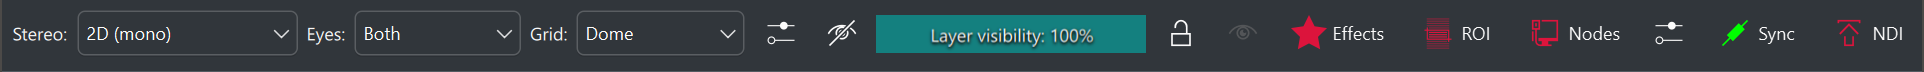
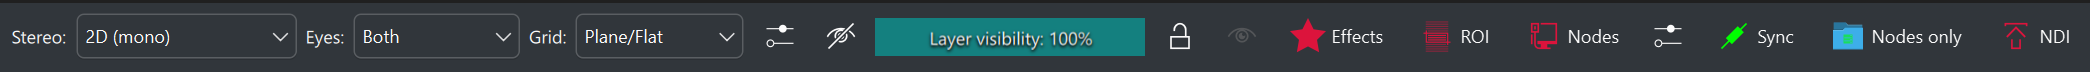
Docs update

diff --git a/src/qml/qt6/Settings/TcpControlSettingsPage.qml b/src/qml/qt6/Settings/TcpControlSettingsPage.qml
@@ -248,11 +248,11 @@ SettingsBasePage {
                 onActivated: root.incomingCommandServerId = currentValue
             }
             Label { text: qsTr("Send terminator (hex):") }
-            TextField { id: incomingSendHex; Layout.fillWidth: true; placeholderText: qsTr("0a = LF, 0d = CR (Medialon)") }
+            TextField { id: incomingSendHex; Layout.fillWidth: true; placeholderText: qsTr("0a = LF, 0d = CR") }
             Label { text: qsTr("Replies:") }
             CheckBox {
                 id: incomingReplies
-                text: qsTr("Reply to every action with a JSON result (turn off for Medialon, which only needs the updates)")
+                text: qsTr("Reply to every action with a JSON result (turn off for clients that only need the updates)")
             }
         }
         RowLayout {
@@ -348,7 +348,7 @@ SettingsBasePage {
         }
         Label {
             Layout.fillWidth: true; wrapMode: Text.WordWrap
-            text: qsTr("Import adds matching Medialon event commands to the selected saved server. Use CRLF framing for the generated LLC driver.")
+            text: qsTr("Import adds the EventModel's event commands to the selected saved server.")
         }
         Label {
             Layout.fillWidth: true; wrapMode: Text.WordWrap

diff --git a/docs/docs/remote-control/tcp.md b/docs/docs/remote-control/tcp.md
@@ -9,10 +9,10 @@ C-Play provides both an outgoing TCP Control Client and an incoming TCP Control 
 
 | Component | Connection direction | Purpose |
 | --- | --- | --- |
-| [TCP Control Client](#tcp-control-client) | C-Play connects to an external TCP server. | Send saved commands from presentation layers and send state updates to devices or control systems such as Medialon. |
+| [TCP Control Client](#tcp-control-client) | C-Play connects to an external TCP server. | Send saved commands from presentation layers and send state updates to devices or show-control systems. |
 | [TCP Control Server](#tcp-control-server) | An external TCP client connects to C-Play, normally on port 7008. | Control C-Play using the existing REST action names and parameters over a persistent TCP connection, and [subscribe](#subscriptions-and-incoming-client-profiles) to state updates on the same connection. |
 
-The two components can run together. For Medialon, either use one full-duplex connection, where **C-Play TCP Control Client** connects to C-Play's server, sends actions and receives its subscribed updates, or use two connections, where **C-Play Control Events** is the server receiving C-Play updates and **C-Play TCP Control Client** only sends actions. HTTP control normally uses port 7007 and is configured separately.
+The two components can run together. With the example MLLC drivers in `help/http_server`, either use one full-duplex connection, where **C-Play TCP Control Client** connects to C-Play's server, sends actions and receives its subscribed updates, or use two connections, where **C-Play Control Events** is the server receiving C-Play updates and **C-Play TCP Control Client** only sends actions. HTTP control normally uses port 7007 and is configured separately.
 
 ## TCP Control Client
 
@@ -41,9 +41,9 @@ The original single-server `[TcpControl]` configuration is imported once as **Le
 
 #### Predefined startup configuration
 
-When no saved `C-Play/tcp-control.json` exists and legacy TCP control is disabled, C-Play loads `./data/predefined-tcp-control.json` at startup, relative to the working directory, like the other `predefined-*` files. It uses the same `version`, `servers`, `commands` and optional `incomingClients` structure as the saved configuration. The packaged example defines a disabled Medialon server at 127.0.0.1 on port 9000 with CR framing (`sendTerminatorHex: "0d"`), `task_start MyTask` / `task_stop MyTask` commands, and all ControlEventFeed monitoring commands. Its [default incoming client profile](#subscriptions-and-incoming-client-profiles) is the Medialon full-duplex client: every client of the TCP Control Server without its own profile is subscribed to all topics on connect and receives them in the structure of those monitoring commands, terminated by CR.
+When no saved `C-Play/tcp-control.json` exists and legacy TCP control is disabled, C-Play loads `./data/predefined-tcp-control.json` at startup, relative to the working directory, like the other `predefined-*` files. It uses the same `version`, `servers`, `commands` and optional `incomingClients` structure as the saved configuration. The packaged example, made for the example MLLC drivers, defines a disabled task server at 127.0.0.1 on port 9000 with CR framing (`sendTerminatorHex: "0d"`), `task_start MyTask` / `task_stop MyTask` commands, and all ControlEventFeed monitoring commands. Its [default incoming client profile](#subscriptions-and-incoming-client-profiles) matches the example full-duplex MLLC client driver: every client of the TCP Control Server without its own profile is subscribed to all topics on connect and receives them in the structure of those monitoring commands, terminated by CR.
 
-Set the host to the Showmaster Editor computer during programming or the Showmaster address during standalone operation. Replace `MyTask` with your task name, enable the server, and save it in **TCP control**. Medialon's LLC device must listen on port 9000 and dispatch received commands to project tasks.
+Set the host to the Showmaster Editor computer during programming or the Showmaster address during standalone operation. Replace `MyTask` with your task name, enable the server, and save it in **TCP control**. The receiving example driver, `help/http_server/Showmaster_TCP_Server.mllc`, must listen on port 9000 and dispatch received commands to project tasks.
 
 Predefined entries load into memory; saving a server or command writes the complete configuration to the user configuration path. That saved file takes precedence on later starts, even when empty or invalid. To use edited predefined entries again, back up and move the saved file out of that path before restarting. Keep IDs stable when editing examples so presentation layers retain their command references. Startup loads definitions and connects enabled servers that have `connectOnStartup`; it does not automatically trigger commands.
 
@@ -136,9 +136,9 @@ Changes are sampled on the ready master's Qt thread every 100 ms, regardless of 
 
 Unchanged topic values send nothing. Automatic commands that append a value also compare their final payload with the last payload sent by that command, per connection. For example, changing layer visibility does not resend a formatted layer-name list if its text stays the same. This applies to outgoing server connections and clients of the TCP Control Server. Initial snapshots, explicit command triggers and full updates always send. Fixed-payload action commands still run on every matching topic change.
 
-#### Medialon event variables and EventModel
+#### EventModel and example driver variables
 
-`data/EventModel.json` is the shared definition for all 33 event commands and their Medialon monitoring variables. New installations receive these commands through `data/predefined-tcp-control.json`. For an existing project, select a saved server in **TCP control**, enter the EventModel JSON path, and click **Import EventModel**. Import merges commands into that server, keeps unrelated commands, and uses stable IDs; importing again updates the same entries. Configure the server for delimiter framing with `sendTerminatorHex: "0d"` (CR), then enable it. Frames end at CR so that the LF row separators in formatted lists stay inside the value; a server still using `0d0a` makes the driver drop list frames. Server JSON notifications can remain disabled because the imported commands send the monitoring frames themselves.
+`data/EventModel.json` is the shared definition for all 33 event commands and the monitoring variables of the example MLLC drivers. New installations receive these commands through `data/predefined-tcp-control.json`. For an existing project, select a saved server in **TCP control**, enter the EventModel JSON path, and click **Import EventModel**. Import merges commands into that server, keeps unrelated commands, and uses stable IDs; importing again updates the same entries. Configure the server for delimiter framing with `sendTerminatorHex: "0d"` (CR), then enable it. Frames end at CR so that the LF row separators in formatted lists stay inside the value; a server still using `0d0a` makes the driver drop list frames. Server JSON notifications can remain disabled because the imported commands send the monitoring frames themselves.
 
 Generate the matching driver from the same model:
 
@@ -167,14 +167,14 @@ Reusable commands persist `eventPayload`, defaulting to `fixed` for manual devic
 `charsPerItem` is a saved per-command integer from 0 to 4096:
 
 - `0` sends arrays and objects as full compact JSON, retaining their fields. Scalars are unaffected: booleans send 0/1, numbers preserve fractional precision, and strings send their text with CR/LF replaced by spaces.
-- A positive width sends `playlist`, `sections`, `audiotracks` and `slides` exactly as the REST `/playlist`, `/sections`, `/audiotracks` and `/slides` endpoints return them with the same `charsPerItem`: numbered rows separated by LF, playlist and section rows ending with their duration, and the slide list excluding the master slide. `layers` is sent as the REST `/layers` endpoint returns it for the currently triggered slide, or for the master slide when no slide is triggered; it is also resent whenever `triggered_slide` changes. Any other list sends numbered labels separated by LF, each exactly that many Unicode characters, padded with spaces or truncated with `... ` when the width allows. Their labels prefer `listTitle`, `shortText`, `title`, `name`, `text`, `language`, `video`, then `path`; rows without these fields use their JSON representation. Use a send terminator without LF (the Medialon driver expects CR, `0d`) when lists contain LF row separators.
+- A positive width sends `playlist`, `sections`, `audiotracks` and `slides` exactly as the REST `/playlist`, `/sections`, `/audiotracks` and `/slides` endpoints return them with the same `charsPerItem`: numbered rows separated by LF, playlist and section rows ending with their duration, and the slide list excluding the master slide. `layers` is sent as the REST `/layers` endpoint returns it for the currently triggered slide, or for the master slide when no slide is triggered; it is also resent whenever `triggered_slide` changes. Any other list sends numbered labels separated by LF, each exactly that many Unicode characters, padded with spaces or truncated with `... ` when the width allows. Their labels prefer `listTitle`, `shortText`, `title`, `name`, `text`, `language`, `video`, then `path`; rows without these fields use their JSON representation. Use a send terminator without LF (the example MLLC drivers expect CR, `0d`) when lists contain LF row separators.
 - The packaged list commands use `40`, `layer_states` uses `38`, and other event commands use `0`. Fixed-width labels intentionally limit list details; use width `0` or the existing REST list/JSON endpoints when full detail is needed. The setting is available in the command editor and through REST, and persists across restarts.
 
-`timeFormat` is an optional per-command time code format for the time topics `position`, `remaining` and `duration`. The packaged `position`, `remaining` and `duration` commands use `hh:mm:ss`, for example `cplay position 00:01:05`, sent at most once per second. An empty format sends seconds with fractional precision. Otherwise the value is sent as a time code in the same QTime format as the REST `format=` parameter of `/position`, `/remaining` and `/duration`: `hh`, `mm`, `ss` and `zz`/`zzz` for milliseconds, with any separators, for example `hh:mm:ss` (`cplay position 00:01:05`) or `hh:mm:ss/zz`. Negative times get a leading `-`. Position is sampled every 100 ms, but a time-formatted command is only sent when its text changes, so `hh:mm:ss` sends at most once per second. Full updates always send. Video frame numbers are not available. Set it in the command editor (**Time format**), in the EventModel, or with `POST /tcp/command?command_id=...&timeFormat=hh:mm:ss` (an empty `timeFormat` restores seconds). The Medialon variables of these topics are strings, so the driver needs no change.
+`timeFormat` is an optional per-command time code format for the time topics `position`, `remaining` and `duration`. The packaged `position`, `remaining` and `duration` commands use `hh:mm:ss`, for example `cplay position 00:01:05`, sent at most once per second. An empty format sends seconds with fractional precision. Otherwise the value is sent as a time code in the same QTime format as the REST `format=` parameter of `/position`, `/remaining` and `/duration`: `hh`, `mm`, `ss` and `zz`/`zzz` for milliseconds, with any separators, for example `hh:mm:ss` (`cplay position 00:01:05`) or `hh:mm:ss/zz`. Negative times get a leading `-`. Position is sampled every 100 ms, but a time-formatted command is only sent when its text changes, so `hh:mm:ss` sends at most once per second. Full updates always send. Video frame numbers are not available. Set it in the command editor (**Time format**), in the EventModel, or with `POST /tcp/command?command_id=...&timeFormat=hh:mm:ss` (an empty `timeFormat` restores seconds). The example MLLC drivers store these topics in string variables, so they need no change.
 
 #### Layer states
 
-The `layer_states` topic tells a show controller which layers of the selected slide are on, off or in transition, without parsing the full `layers` value. It covers the layers of the selected slide, or of the master slide when the selected index is `-1`. The `selected_slide` topic (Medialon variable `CPlay_selected_slide`) sends that slide index as its own integer; it has the same value as `playing_in_slides`. When the selection changes, `selected_slide` is sent before `layer_states`, in the same sample. Each layer has one of four states:
+The `layer_states` topic tells a show controller which layers of the selected slide are on, off or in transition, without parsing the full `layers` value. It covers the layers of the selected slide, or of the master slide when the selected index is `-1`. The `selected_slide` topic (example MLLC driver variable `CPlay_selected_slide`) sends that slide index as its own integer; it has the same value as `playing_in_slides`. When the selection changes, `selected_slide` is sent before `layer_states`, in the same sample. Each layer has one of four states:
 
 | State | Meaning |
 | --- | --- |
@@ -188,7 +188,7 @@ Fades and entrance/exit effects started on a layer (double-click, `/layer_fade_i
 What is sent depends on the command's `charsPerItem`:
 
 - `0` sends one line, `slide=<index>` followed by `;<layer_idx>:<state>` per layer. `layer_idx` is zero-based, as the `layer_idx=` parameter of the [layer control endpoints](api.md#layer-control) expects. For example `cplay layer_states slide=2;0:ON;1:OFF;2:IN`.
-- A positive width (the packaged `Medialon: layer_states` command uses `38`) sends one row per layer separated by LF, each exactly that many characters: the numbered title, then the state right-aligned in the last 4 characters, for example `1. Logo                             ON`.
+- A positive width (the packaged `layer_states` command uses `38`) sends one row per layer separated by LF, each exactly that many characters: the numbered title, then the state right-aligned in the last 4 characters, for example `1. Logo                             ON`.
 
 JSON notifications and subscriptions receive the structured value, for example `{"slide":2,"layers":[{"index":0,"title":"Logo","state":"ON"},{"index":1,"title":"Intro video","state":"IN"}]}`. HTTP `GET /layer_states?charsPerItem=0` returns the same text as the TCP command for initialization or polling.
 
@@ -216,11 +216,11 @@ HTTP long polling and optional WebSocket subscriptions use the same feed; see [A
 
 ## TCP Control Server
 
-The incoming listener accepts REST-style actions from Medialon or another TCP client. It dispatches directly to the same action handlers as HTTP; enabling the HTTP listener is optional. The listener does not use the outgoing client's `operation` / `parameter` protocol.
+The incoming listener accepts REST-style actions from any TCP client. It dispatches directly to the same action handlers as HTTP; enabling the HTTP listener is optional. The listener does not use the outgoing client's `operation` / `parameter` protocol.
 
 ### Enable the listener
 
-Enable **Incoming TCP control → Enable TCP server on master**, choose a numeric IPv4 or IPv6 bind address and port (default `0.0.0.0:7008`), then click **Apply listener**. These settings persist in `cplay.conf`. Only a ready master listens; disabling the server, changing role, or quitting closes its clients. HTTP may remain disabled. Use a bind address reachable from Medialon; the listener shares the REST API's trusted-network access model.
+Enable **Incoming TCP control → Enable TCP server on master**, choose a numeric IPv4 or IPv6 bind address and port (default `0.0.0.0:7008`), then click **Apply listener**. These settings persist in `cplay.conf`. Only a ready master listens; disabling the server, changing role, or quitting closes its clients. HTTP may remain disabled. Use a bind address reachable from the clients; the listener shares the REST API's trusted-network access model.
 
 ### Medialon client driver
 
@@ -246,7 +246,7 @@ The shared `data/TcpControlActions.json` catalog defines all 51 actions and is e
 
 ### Command format and replies
 
-The wire format is one UTF-8 command per LF or CRLF terminated line. Send an actual newline after each request; there is no HTTP version, header block or request body on this TCP connection. Medialon sends request lines:
+The wire format is one UTF-8 command per LF or CRLF terminated line. Send an actual newline after each request; there is no HTTP version, header block or request body on this TCP connection. Clients send request lines:
 
 ```text
 POST /play
@@ -255,9 +255,9 @@ POST /load_from_playlist?index=2
 POST /layer_visibility?slide_idx=0&layer_idx=1&value=50
 ```
 
-Use the REST parameter names, units and zero-based indices. String parameters in Medialon must be URL percent encoded when they contain special characters: space `%20`, ampersand `%26`, hash `%23`, percent `%25`, and UTF-8 bytes for non-ASCII text. A plus sign is literal. The generated layer commands use slide/layer indices; custom commands can use `slide_name`, `layer_title`, `sub_layer_idx`, or `sub_layer_title` as the REST API does. Omitting the slide selector targets the Master slide. Layer plane commands can set any subset of the plane properties listed in the [HTTP layer control reference](api.md#layer-control).
+Use the REST parameter names, units and zero-based indices. String parameters must be URL percent encoded when they contain special characters: space `%20`, ampersand `%26`, hash `%23`, percent `%25`, and UTF-8 bytes for non-ASCII text. A plus sign is literal. The generated layer commands use slide/layer indices; custom commands can use `slide_name`, `layer_title`, `sub_layer_idx`, or `sub_layer_title` as the REST API does. Omitting the slide selector targets the Master slide. Layer plane commands can set any subset of the plane properties listed in the [HTTP layer control reference](api.md#layer-control).
 
-`/layer_plane` also accepts `circular`, `centreDegrees` and `widthDegrees` for [circular placement](api.md#layer-control), for example `POST /layer_plane?slide_idx=0&layer_idx=0&circular=1&centreDegrees=355&widthDegrees=20`. The shared circular surface must be enabled in Grid Settings. Regenerate the Medialon client driver to expose these additional optional fields; empty degree fields leave their saved values unchanged.
+`/layer_plane` also accepts `circular`, `centreDegrees` and `widthDegrees` for [circular placement](api.md#layer-control), for example `POST /layer_plane?slide_idx=0&layer_idx=0&circular=1&centreDegrees=355&widthDegrees=20`. The shared circular surface must be enabled in Grid Settings. Regenerate the example MLLC client driver to expose these additional optional fields; empty degree fields leave their saved values unchanged.
 
 Other TCP clients can send JSON instead, with string parameter values:
 
@@ -266,7 +266,7 @@ Other TCP clients can send JSON instead, with string parameter values:
 {"path":"/layer_visibility","parameters":{"layer_title":"Logo","value":"50"}}
 ```
 
-Each command receives a newline-delimited JSON reply, for example `{"accepted":true,"status":200,"message":"Play"}`. `accepted` reports dispatch to the REST handler, not completion of playback or a transition. Legacy REST validation messages are preserved; read the message for an invalid value or missing target. Malformed requests, unsupported paths, and missing mutation parameters return `accepted:false` without dispatch. The Medialon driver sends commands without waiting for replies and does not replay commands after reconnect.
+Each command receives a newline-delimited JSON reply, for example `{"accepted":true,"status":200,"message":"Play"}`. `accepted` reports dispatch to the REST handler, not completion of playback or a transition. Legacy REST validation messages are preserved; read the message for an invalid value or missing target. Malformed requests, unsupported paths, and missing mutation parameters return `accepted:false` without dispatch. The example MLLC client driver sends commands without waiting for replies and does not replay commands after reconnect.
 
 JSON parameters must be strings, including numbers and booleans. Repeated URL query parameter names are rejected. Setters require their mutation parameter (for example, `/volume` requires `level`); `/volume` alone is rejected as an information query. Use the [subscription actions](#subscriptions-and-incoming-client-profiles) below to receive state on the same connection, or the [event API](api.md#change-subscriptions).
 
@@ -289,7 +289,7 @@ POST /full_update?topics=playlist
 | `/unsubscribe` | Comma-separated topics; omitted, empty or `*` clears the subscription. | Removes the topics. Removing single topics from an all-topics subscription keeps all other topics. |
 | `/full_update` | Comma-separated topics; omitted or empty means all. | Sends the current values once, without changing the subscription. |
 
-JSON clients send the same actions as `{"path":"/subscribe","parameters":{"topics":"volume,playlist"}}`. The reply is sent first, for example `{"accepted":true,"status":200,"message":"Subscribed","topics":["volume","playlist"]}`. `topics` lists the connection's subscription after the change; for `/full_update` it lists the requested topics. Unknown topics return `accepted:false` with status 400 and change nothing. Subscriptions belong to the connection: they end when the client disconnects. By default, the client's profile subscribes it to all topics again on connect (below), so a reconnecting client such as Medialon needs no `/subscribe` of its own. Changes are sampled every 100 ms, as for the TCP Control Client, and are not replayed after a reconnect.
+JSON clients send the same actions as `{"path":"/subscribe","parameters":{"topics":"volume,playlist"}}`. The reply is sent first, for example `{"accepted":true,"status":200,"message":"Subscribed","topics":["volume","playlist"]}`. `topics` lists the connection's subscription after the change; for `/full_update` it lists the requested topics. Unknown topics return `accepted:false` with status 400 and change nothing. Subscriptions belong to the connection: they end when the client disconnects. By default, the client's profile subscribes it to all topics again on connect (below), so a reconnecting client needs no `/subscribe` of its own. Changes are sampled every 100 ms, as for the TCP Control Client, and are not replayed after a reconnect.
 
 What a client receives depends on the **incoming client profile** for its address. A profile is selected by the client's IP address as C-Play sees it, so IPv4 clients of a dual-stack listener still match their IPv4 address. Every client without an enabled profile for its exact address uses the **default profile**, address `*`. The default profile always exists: C-Play adds it to a configuration without one, it cannot be deleted, and its address and `enabled` flag cannot be changed. Edit it to change what unknown clients receive. Its built-in settings are the name **Default profile**, JSON notifications, the LF terminator and a subscription to all topics on connect.
 
@@ -298,15 +298,15 @@ What a client receives depends on the **incoming client profile** for its addres
 | `id`, `name` | derived address, required name | The profile ID is the canonical client address, or `*`. |
 | `address` | required | Numeric IPv4/IPv6 address of the client, or `*` for the default profile. |
 | `enabled` | `true` | Disabled profiles are ignored when matching; their clients use the default profile. Always `true` for the default profile. |
-| `eventTopics` | `["*"]` | Topics subscribed automatically when the client connects, `*` for all; `[]` waits for `/subscribe`. Clients that reconnect automatically, such as Medialon, then never miss their subscription. |
+| `eventTopics` | `["*"]` | Topics subscribed automatically when the client connects, `*` for all; `[]` waits for `/subscribe`. Clients that reconnect automatically then never miss their subscription. |
 | `excludedTopics` | `[]` | Topics left out of an `eventTopics: ["*"]` subscription. Topics added in later C-Play versions are still subscribed. Ignored for explicit topic lists. |
 | `eventFormat` | `json` | `json`: the `change` notifications and `snapshot` objects of the [outgoing client's subscriptions](#subscribe-and-query-over-tcp). `commands`: the event commands of the server `commandServerId`. |
 | `commandServerId` | — | Required for `commands`. Every reusable command of this server with **Trigger on changes** topics is sent to the client for those topics, exactly as it is sent to that server: same payload prefix, appended value, `charsPerItem`, `timeFormat` and exact-wire-bytes setting. The server itself may be disabled; it then only defines the structure. |
-| `sendTerminatorHex` | `0a` | Terminator of every reply and update sent to the client, for example `0a` (LF) or `0d` (CR, for the Medialon driver). May be empty. |
+| `sendTerminatorHex` | `0a` | Terminator of every reply and update sent to the client, for example `0a` (LF) or `0d` (CR, for the example MLLC client driver). May be empty. |
 | `sendInitialUpdate` | `true` | Send the current values of the `eventTopics` subscription when the client connects. Turn off for clients that disconnect and reconnect often: each connection then only receives changes, and the client requests the current values with `/full_update` when it needs them. An explicit `/subscribe` always sends the current values. |
-| `sendReplies` | `true` | Reply to every action, including `/subscribe`, `/unsubscribe` and `/full_update`, with its JSON result. Turn off for clients that only need the updates, such as the Medialon driver. Updates are always sent. |
+| `sendReplies` | `true` | Reply to every action, including `/subscribe`, `/unsubscribe` and `/full_update`, with its JSON result. Turn off for clients that only need the updates, such as the example MLLC client driver. Updates are always sent. |
 
-With the `commands` format, a subscription to `volume` sends `cplay volume 75` followed by the terminator for the packaged Medialon commands. An initial value, a full update, or `/subscribe` for all topics sends each event command of the requested topics once, like the [full update](#layer-states) of a server. Automatic value commands are only sent when their final payload changes, per client. A `layers` command with a positive `charsPerItem` is also checked when `triggered_slide` changes and sent if its text changes. In JSON format, the initial values and full updates are one `snapshot` object, and changes are `change` notifications.
+With the `commands` format, a subscription to `volume` sends `cplay volume 75` followed by the terminator for the packaged event commands. An initial value, a full update, or `/subscribe` for all topics sends each event command of the requested topics once, like the [full update](#layer-states) of a server. Automatic value commands are only sent when their final payload changes, per client. A `layers` command with a positive `charsPerItem` is also checked when `triggered_slide` changes and sent if its text changes. In JSON format, the initial values and full updates are one `snapshot` object, and changes are `change` notifications.
 
 Profiles are saved in the `incomingClients` array of `tcp-control.json`:
 
@@ -314,7 +314,7 @@ Profiles are saved in the `incomingClients` array of `tcp-control.json`:
 {
   "incomingClients": [
     {
-      "name": "Medialon full-duplex client",
+      "name": "Full-duplex show controller",
       "address": "192.168.1.20",
       "enabled": true,
       "eventTopics": ["*"],

diff --git a/docs/docs/settings/tcp_control.md b/docs/docs/settings/tcp_control.md
@@ -7,11 +7,11 @@ sidebar_position: 9
 
 ![TCP control settings](/assets/ui/settings/tcp_control.png)
 
-The TCP control settings configure C-Play's incoming TCP Control Server and its outgoing TCP Control Client connections. Only the master opens connections or listens; cluster nodes ignore these settings. For protocols, framing, event topics and Medialon examples, see [TCP control](/remote-control/tcp).
+The TCP control settings configure C-Play's incoming TCP Control Server and its outgoing TCP Control Client connections. Only the master opens connections or listens; cluster nodes ignore these settings. For protocols, framing, event topics and the example MLLC drivers, see [TCP control](/remote-control/tcp).
 
 ### Incoming TCP control
 
-* **Enable TCP server on master** — Accept REST-style actions from a TCP client such as Medialon, see [TCP Control Server](/remote-control/tcp#tcp-control-server).
+* **Enable TCP server on master** — Accept REST-style actions from any TCP client, see [TCP Control Server](/remote-control/tcp#tcp-control-server).
 * **Bind address** / **Port** — Numeric IPv4 or IPv6 address and port to listen on (default `0.0.0.0:7008`). Click **Apply listener** to apply them.
 
 The line below shows the listener state and the number of connected clients. These settings are saved in `cplay.conf`.
@@ -26,8 +26,8 @@ Clients of the TCP server can subscribe to state updates with `/subscribe`, `/un
 * **Update on connect** — Send the current values of the subscribed topics when the client connects (default on). Turn off for clients that disconnect and reconnect often; they then only receive changes and request the current values with `/full_update`.
 * **Update format** — *JSON notifications*, or *Event commands of a TCP server*: the client receives that server's event commands (for example `cplay volume 75`) exactly as the server would.
 * **Command structure from** — The server whose event commands are used. It may be a disabled server that only defines the structure.
-* **Send terminator (hex)** — Terminator of every reply and update sent to the client: `0a` (LF) by default, `0d` (CR) for the Medialon full-duplex driver.
-* **Replies** — Reply to every action with its JSON result (default on). Turn off for the Medialon full-duplex driver: replies arriving between updates can briefly set its monitoring variables, such as the volume, to 0.
+* **Send terminator (hex)** — Terminator of every reply and update sent to the client: `0a` (LF) by default, `0d` (CR) for the example MLLC client driver.
+* **Replies** — Reply to every action with its JSON result (default on). Turn off for clients that only need the updates, such as the example MLLC client driver: replies arriving between updates can briefly set its monitoring variables, such as the volume, to 0.
 
 Use **Save client profile** and **Delete client profile** to manage the selected profile. The default profile cannot be deleted, only edited. Changes apply immediately to connected clients. Profiles are saved in `tcp-control.json`.
 
@@ -56,7 +56,7 @@ Use **Save server**, **Delete server**, **Connect**, and **Disconnect** to manag
 
 Commands defined here are triggered by [TCP layers](/media/layers#tcp) in presentations, manually, or automatically on changes.
 
-* **EventModel path** / **Import EventModel** — Import Medialon event commands into the selected saved server.
+* **EventModel path** / **Import EventModel** — Import the EventModel's event commands into the selected saved server.
 * **Name** / **Server** — Command label and the server it is sent to.
 * **Payload** — *UTF-8 text* or hexadecimal bytes.
 * **Exact wire bytes** — Send the payload without adding framing or termination.

diff --git a/docs/docs/remote-control/api.md b/docs/docs/remote-control/api.md
@@ -395,9 +395,9 @@ Obtain IDs from `/tcp/servers` and `/tcp/commands`. Server IDs are endpoints suc
 
 With `command_id=all`, C-Play reads one cached state snapshot and dispatches each command on that server with a nonempty `eventTopics` selection once. Commands without event topics are excluded. The response reports `success`, `accepted` and `rejected` counts, and a `message`. A full update requires an active event feed and a connected TCP server. C-Play sends the same full update automatically whenever a server connection is established or restored; requesting it manually is useful when the server needs a fresh state at another time.
 
-`charsPerItem=0` sends arrays and objects as compact JSON for commands using `eventPayload: "value"`. Positive widths send numbered, padded or truncated list labels concatenated into one frame; the packaged Medialon list commands use 40. Scalars retain their usual value format. See [EventModel formatting](tcp.md#medialon-event-variables-and-eventmodel) for details.
+`charsPerItem=0` sends arrays and objects as compact JSON for commands using `eventPayload: "value"`. Positive widths send numbered, padded or truncated list labels concatenated into one frame; the packaged list commands use 40. Scalars retain their usual value format. See [EventModel formatting](tcp.md#eventmodel-and-example-driver-variables) for details.
 
-For example, list the definitions, connect to the saved Medialon endpoint, then request a full update:
+For example, list the definitions, connect to the saved example endpoint, then request a full update:
 
 ```sh
 curl 'http://localhost:7007/tcp/servers'

diff --git a/docs/docs/media/layers.md b/docs/docs/media/layers.md
@@ -238,7 +238,7 @@ For more details on the REST layer and the REST Commands Editor, see the [HTTP W
 
 ### TCP
 
-A TCP layer is a cue that sends a saved text or binary command over a persistent network connection. Use it for devices and show-control systems with a TCP command protocol, such as triggering a Medialon task or sending a projector command. It has no visual output and runs on the master.
+A TCP layer is a cue that sends a saved text or binary command over a persistent network connection. Use it for devices and show-control systems with a TCP command protocol, such as triggering a show-control task or sending a projector command. It has no visual output and runs on the master.
 
 Choose **TCP** to trigger a reusable command through one of C-Play's persistent TCP server connections. Define servers and text or binary commands in [**Settings → Configure → TCP control**](/settings/tcp_control), then select a command when adding the layer. Each server keeps its own connection, so multiple layers can send different commands to different devices.
 

diff --git a/docs/docs/media/layer-operations.md b/docs/docs/media/layer-operations.md
@@ -85,7 +85,7 @@ For a typical green screen: pick the key color from the background, raise *Simil
 
 By default, nodes load their own copy of a synchronized layer. The **Sync** control in Inspect view can make a layer exist only on the master. This is separate from the **Master slide** and its Front/Back marking, which determine the layer's position in the [rendering order](/media/cplaypres).
 
-![Inspect view toolbar with Effects, ROI, Nodes, Sync and NDI](/assets/ui/layer_view_toolbar.png)
+![Inspect view toolbar with Effects, ROI, Nodes, Sync, Nodes only and NDI](/assets/ui/layer_view_toolbar.png)
 
 For supported live layer types, **Nodes read from original source** lets each machine load its source, while **Master sends content to nodes** renders on the master and streams the texture. The **Nodes** control in Inspect view also enables texture streaming. See [Streaming layers from master to nodes](/playback/node-streaming) for transport, audio, and synchronization details.
 

diff --git a/docs/docs/system-integration/ndi-output.md b/docs/docs/system-integration/ndi-output.md
@@ -51,7 +51,7 @@ The perspective camera and the sphere view keep a 16:9 aspect ratio, while the f
 
 Each presentation layer can additionally be published as its **own** NDI source, independently of the main video output. This is useful when another application should receive a single feed — for example one camera or one OBS scene that C-Play displays as a layer — without the rest of the composition.
 
-![Inspect view toolbar with Nodes, Sync and NDI](/assets/ui/layer_view_toolbar.png)
+![Inspect view toolbar with Nodes, Sync, Nodes only and NDI](/assets/ui/layer_view_toolbar.png)
 
 1. Open the Inspect view for the slide and select the layer you want to send.
 2. In the layer's control row (next to the Grid, ROI, and visibility controls), click the **NDI** button to enable NDI output for that layer.

diff --git a/docs/docs/remote-control/index.md b/docs/docs/remote-control/index.md
@@ -11,4 +11,4 @@ Below you find links to the API as well as an example UI.
  - [HTTP Web API](/remote-control/api)
  - [Presenter view and movie view (web)](/remote-control/web-views)
  - [TCP control client](/remote-control/tcp)
- - [Medialon Example Web UI](/remote-control/ui)
+ - [iPad (Web) UI example](/remote-control/ui)
